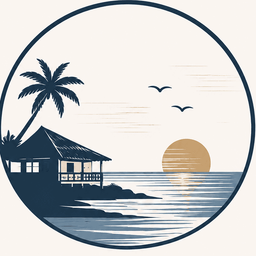
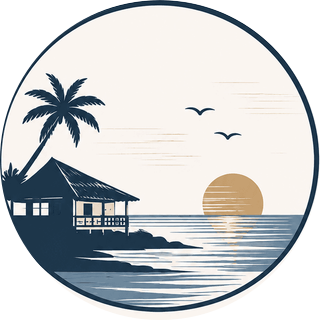
Homepage revamp: real photos, refined hero, editorial sections, mobile fix
- Imagery: real lodge photo hero (dimmed, light high-contrast text), real
  photo in the story, all 8 Booking.com photos in the gallery; removed the
  AI activity/atmosphere images.
- Layout: Experiences redesigned as an editorial "seasonal almanac" list
  (breaks the repeating card grid); Book/Connect stripped of stock imagery.
- Copy: tightened to the real family story, less generic marketing tone.
- Logo: circular emblem mark (transparent corners) + matching favicon.
- Mobile: fixed the menu drawer (was trapped by the header's backdrop-filter
  containing block) — now a full-screen sibling with its own close button.
- Tooling: Playwright mobile audit (no overflow / console errors).

diff --git a/components/SiteNav.tsx b/components/SiteNav.tsx
@@ -25,81 +25,94 @@ export function SiteNav() {
     };
   }, [open]);
 
+  const Wordmark = (
+    <Link href="/" aria-label={`${site.name} home`} className="flex items-center gap-2.5">
+      <Image
+        src="/images/logo-mark.png"
+        alt=""
+        width={240}
+        height={240}
+        priority
+        className="h-10 w-10 lg:h-11 lg:w-11"
+      />
+      <span className="font-heading text-lg font-semibold tracking-[0.3em] text-deepsea">
+        {site.wordmark}
+      </span>
+    </Link>
+  );
+
   return (
-    <header
-      className={`fixed inset-x-0 top-0 z-50 transition-all duration-500 ${
-        scrolled
-          ? "border-b border-teal/15 bg-sand/90 backdrop-blur-md"
-          : "bg-sand/70 backdrop-blur-sm"
-      }`}
-    >
-      <nav className="inner container-px flex items-center justify-between py-3">
-        <Link href="/" aria-label={`${site.name} home`} className="flex items-center gap-2.5">
-          <Image
-            src="/images/logo-mark.png"
-            alt=""
-            width={240}
-            height={240}
-            priority
-            className="h-10 w-10 lg:h-11 lg:w-11"
-          />
-          <span className="font-heading text-lg font-semibold tracking-[0.3em] text-deepsea">
-            {site.wordmark}
-          </span>
-        </Link>
+    <>
+      <header
+        className={`fixed inset-x-0 top-0 z-50 transition-all duration-500 ${
+          scrolled
+            ? "border-b border-teal/15 bg-sand/90 backdrop-blur-md"
+            : "bg-sand/70 backdrop-blur-sm"
+        }`}
+      >
+        <nav className="inner container-px flex items-center justify-between py-3">
+          {Wordmark}
 
-        {/* desktop links — centred, generous spacing */}
-        <ul className="hidden items-center gap-9 font-heading text-[11px] font-semibold uppercase tracking-[0.13em] text-deepsea/70 lg:flex">
-          {headerLinks.map((l) => (
-            <li key={l.href}>
-              <Link href={l.href} className="transition hover:text-teal">
-                {l.label}
-              </Link>
-            </li>
-          ))}
-        </ul>
+          {/* desktop links — centred, generous spacing */}
+          <ul className="hidden items-center gap-9 font-heading text-[11px] font-semibold uppercase tracking-[0.13em] text-deepsea/70 lg:flex">
+            {headerLinks.map((l) => (
+              <li key={l.href}>
+                <Link href={l.href} className="transition hover:text-teal">
+                  {l.label}
+                </Link>
+              </li>
+            ))}
+          </ul>
 
-        {/* desktop actions */}
-        <div className="hidden items-center gap-3 lg:flex">
-          <AmbientSound compact />
-          <a
-            href={site.bookingUrl}
-            target="_blank"
-            rel="noopener noreferrer"
-            className="btn-coral !px-5 !py-2.5 text-xs"
-          >
-            Check availability
-          </a>
-        </div>
-
-        {/* mobile toggle */}
-        <button
-          type="button"
-          onClick={() => setOpen((v) => !v)}
-          className="relative z-50 flex h-10 w-10 items-center justify-center rounded-full border border-teal/25 bg-white/60 lg:hidden"
-          aria-label={open ? "Close menu" : "Open menu"}
-          aria-expanded={open}
-        >
-          <span className="sr-only">Menu</span>
-          <div className="flex flex-col gap-1.5">
-            <span
-              className={`block h-0.5 w-5 bg-deepsea transition ${open ? "translate-y-2 rotate-45" : ""}`}
-            />
-            <span className={`block h-0.5 w-5 bg-deepsea transition ${open ? "opacity-0" : ""}`} />
-            <span
-              className={`block h-0.5 w-5 bg-deepsea transition ${open ? "-translate-y-2 -rotate-45" : ""}`}
-            />
+          {/* desktop actions */}
+          <div className="hidden items-center gap-3 lg:flex">
+            <AmbientSound compact />
+            <a
+              href={site.bookingUrl}
+              target="_blank"
+              rel="noopener noreferrer"
+              className="btn-coral !px-5 !py-2.5 text-xs"
+            >
+              Check availability
+            </a>
           </div>
-        </button>
-      </nav>
 
-      {/* mobile drawer */}
+          {/* mobile hamburger — opens the drawer */}
+          <button
+            type="button"
+            onClick={() => setOpen(true)}
+            className="flex h-10 w-10 items-center justify-center rounded-full border border-teal/25 bg-white/70 lg:hidden"
+            aria-label="Open menu"
+            aria-expanded={open}
+          >
+            <div className="flex flex-col gap-1.5">
+              <span className="block h-0.5 w-5 bg-deepsea" />
+              <span className="block h-0.5 w-5 bg-deepsea" />
+              <span className="block h-0.5 w-5 bg-deepsea" />
+            </div>
+          </button>
+        </nav>
+      </header>
+
+      {/* mobile drawer — sibling of the (blurred) header so it covers the full viewport */}
       <div
-        className={`fixed inset-0 z-40 flex flex-col bg-sand px-6 pb-10 pt-24 transition-opacity duration-300 lg:hidden ${
+        className={`fixed inset-0 z-[70] flex flex-col bg-sand px-6 pb-10 pt-4 transition-opacity duration-300 lg:hidden ${
           open ? "pointer-events-auto opacity-100" : "pointer-events-none opacity-0"
         }`}
       >
-        <ul className="flex flex-col gap-1">
+        <div className="flex items-center justify-between">
+          {Wordmark}
+          <button
+            type="button"
+            onClick={() => setOpen(false)}
+            className="flex h-10 w-10 items-center justify-center rounded-full border border-teal/25 bg-white/70 text-xl text-deepsea"
+            aria-label="Close menu"
+          >
+            ✕
+          </button>
+        </div>
+
+        <ul className="mt-6 flex flex-col">
           {navLinks.map((l) => (
             <li key={l.href}>
               <Link
@@ -112,7 +125,7 @@ export function SiteNav() {
             </li>
           ))}
         </ul>
-        <div className="mt-8 flex items-center justify-between gap-4">
+        <div className="mt-auto flex items-center justify-between gap-4 pt-8">
           <a
             href={site.bookingUrl}
             target="_blank"
@@ -125,6 +138,6 @@ export function SiteNav() {
           <AmbientSound compact />
         </div>
       </div>
-    </header>
+    </>
   );
 }

diff --git a/app/page.tsx b/app/page.tsx
@@ -52,7 +52,7 @@ export default function HomePage() {
 function Hero() {
   return (
     <section id="top" className="relative flex min-h-[100svh] flex-col overflow-hidden">
-      {/* full-bleed ocean photo, fading down into the page background */}
+      {/* full-bleed lodge photo, dimmed so the text reads clearly */}
       <div className="absolute inset-0 -z-10">
         <Photo
           src={img.hero.src}
@@ -61,25 +61,27 @@ function Hero() {
           rounded="rounded-none"
           sizes="100vw"
           className="h-full w-full"
+          imgClassName="object-[center_56%]"
         />
-        <div className="absolute inset-0 bg-gradient-to-b from-white/25 via-transparent to-transparent" />
-        <div className="absolute inset-x-0 bottom-0 h-2/3 bg-gradient-to-t from-sand via-sand/90 to-transparent" />
+        {/* dim + teal tint → photo recedes, text pops */}
+        <div className="absolute inset-0 bg-deepsea/55" />
+        <div className="absolute inset-0 bg-gradient-to-t from-deepsea/75 via-deepsea/35 to-deepsea/55" />
       </div>
 
-      <div className="inner container-px flex flex-1 flex-col justify-end pb-8 pt-28 text-center">
+      <div className="inner container-px flex flex-1 flex-col justify-center pb-10 pt-28 text-center">
         <Reveal>
-          <div className="mx-auto mb-6 flex flex-wrap items-center justify-center gap-2.5">
+          <div className="mx-auto mb-5 flex flex-wrap items-center justify-center gap-2.5">
             <Pill icon={<IconPin className="h-3.5 w-3.5" />}>{site.location}</Pill>
             <Pill icon={<IconWave className="h-3.5 w-3.5" />}>Beachfront · 100m to sand</Pill>
             <Pill icon={<IconSun className="h-3.5 w-3.5" />}>Solar powered</Pill>
           </div>
-          <h1 className="mx-auto max-w-4xl font-heading text-[clamp(2.5rem,7vw,5rem)] font-semibold leading-[1.04] tracking-tight text-deepsea">
-            Wake to the sound of the <span className="italic text-teal">waves</span>
+          <h1 className="mx-auto max-w-4xl font-heading text-[clamp(2.5rem,6.4vw,4.8rem)] font-semibold leading-[1.04] tracking-tight text-white [text-shadow:0_2px_24px_rgba(11,58,64,0.45)]">
+            Wake to the sound of the <span className="italic text-golden">waves</span>
           </h1>
-          <p className="mx-auto mt-6 max-w-xl font-body text-base leading-relaxed text-deepsea/70 sm:text-lg">
-            A luxury self-catering lodge on a dune above the Indian Ocean —
-            four en-suite rooms across two units, solar-powered, and your own
-            stretch of white-sand beach.
+          <p className="mx-auto mt-5 max-w-xl font-body text-base leading-relaxed text-white/90 sm:text-lg [text-shadow:0_1px_12px_rgba(11,58,64,0.5)]">
+            A family-run, self-catering lodge on a dune above the Indian Ocean —
+            four en-suite rooms across two thatched units, solar-powered, your own
+            stretch of white sand.
           </p>
         </Reveal>
 
@@ -88,7 +90,7 @@ function Hero() {
         </Reveal>
       </div>
 
-      <div className="pointer-events-none absolute bottom-5 left-0 right-0 z-10 animate-bob text-center font-heading text-[10px] font-semibold uppercase tracking-[0.3em] text-teal/80">
+      <div className="pointer-events-none absolute bottom-5 left-0 right-0 z-10 animate-bob text-center font-heading text-[10px] font-semibold uppercase tracking-[0.3em] text-white/75">
         Scroll
       </div>
     </section>
@@ -129,8 +131,8 @@ function Story() {
         </Reveal>
         <Reveal delay={120}>
           <Photo
-            src={img.beachWalk.src}
-            alt={img.beachWalk.alt}
+            src={img.deck.src}
+            alt={img.deck.alt}
             className="aspect-[4/5] w-full shadow-card"
             sizes="(max-width:1024px) 100vw, 50vw"
           />
@@ -283,10 +285,10 @@ function Lodge() {
 
 /* ───────────────────────── EXPERIENCES & SEASONS ───────────────────────── */
 const experiences = [
-  { when: "Jul – Nov", title: "Whale watching", image: img.whale, blurb: "Humpbacks pass close to the dune on their migration north." },
-  { when: "Oct – Mar", title: "Turtle nesting", image: img.turtle, blurb: "Loggerheads and leatherbacks come ashore after dark." },
-  { when: "Year-round", title: "Fishing & diving", image: img.reef, blurb: "Reef and game fishing, and dives off an untouched coast." },
-  { when: "Year-round", title: "Kitesurfing", image: img.kite, blurb: "Steady cross-shore wind and a wide, empty lagoon." },
+  { when: "Jul – Nov", title: "Whale watching", blurb: "Humpbacks pass close on their migration north — often near enough to watch from the deck with a coffee." },
+  { when: "Oct – Mar", title: "Turtle nesting", blurb: "Loggerheads and leatherbacks haul ashore after dark to lay, on a beach dark enough for the hatchlings to find the sea." },
+  { when: "All year", title: "Fishing & diving", blurb: "The reef and game fishing Madelaine's father first came for, and dives off a coast few people ever reach." },
+  { when: "All year", title: "Kitesurfing", blurb: "Steady cross-shore wind over a wide, empty lagoon — and, more often than not, no one else on the water." },
 ];
 
 function Experiences() {
@@ -295,54 +297,36 @@ function Experiences() {
       <div className="section container-px">
         <div className="inner">
           <Reveal className="max-w-2xl">
-            <div className="eyebrow mb-6">04 — Experiences & Seasons</div>
+            <div className="eyebrow mb-6">04 — Experiences &amp; Seasons</div>
             <h2 className="font-heading text-[clamp(2rem,4.4vw,3.2rem)] font-semibold leading-[1.1] text-deepsea">
               The ocean keeps its own calendar
             </h2>
             <p className="mt-5 max-w-xl font-body text-[17px] leading-relaxed text-deepsea/70">
-              Come for the whales, stay for the quiet. Pomene's reserve gives you
-              something different in every season — and the same warm water all
-              year.
+              Come for the whales, stay for the quiet. Every season brings
+              something different — and the water stays warm right through.
             </p>
           </Reveal>
 
-          <div className="mt-10 grid gap-5 sm:grid-cols-2 lg:grid-cols-4">
+          {/* editorial almanac — season on the left, what's on to the right */}
+          <div className="mt-12 border-t border-teal/15">
             {experiences.map((e, i) => (
-              <Reveal key={e.title} delay={i * 90}>
-                <article className="card h-full overflow-hidden hover:shadow-lift">
-                  <Photo
-                    src={e.image.src}
-                    alt={e.image.alt}
-                    rounded="rounded-none"
-                    className="h-48 w-full"
-                    sizes="(max-width:768px) 100vw, 25vw"
-                  />
-                  <div className="p-6">
-                    <div className="font-heading text-[11px] font-semibold uppercase tracking-[0.16em] text-coral">
-                      {e.when}
-                    </div>
-                    <h3 className="mt-2 font-heading text-xl font-semibold text-deepsea">
+              <Reveal key={e.title} delay={i * 70}>
+                <div className="grid items-baseline gap-x-10 gap-y-2 border-b border-teal/15 py-7 sm:grid-cols-[200px_1fr]">
+                  <div className="font-heading text-xl font-semibold uppercase tracking-[0.08em] text-teal">
+                    {e.when}
+                  </div>
+                  <div>
+                    <h3 className="font-heading text-2xl font-semibold text-deepsea">
                       {e.title}
                     </h3>
-                    <p className="mt-2 font-body text-[14px] leading-relaxed text-deepsea/65">
+                    <p className="mt-2 max-w-2xl font-body text-[16px] leading-relaxed text-deepsea/70">
                       {e.blurb}
                     </p>
                   </div>
-                </article>
+                </div>
               </Reveal>
             ))}
           </div>
-
-          <Reveal delay={120} className="mt-6 rounded-2xl border border-teal/15 bg-white p-6">
-            <div className="flex flex-wrap items-center gap-x-6 gap-y-2 font-heading text-[11px] font-semibold uppercase tracking-[0.1em] text-deepsea/60">
-              <span className="text-teal">When to come ·</span>
-              <span>Whales — Jul to Nov</span>
-              <span className="text-golden">/</span>
-              <span>Turtles — Oct to Mar</span>
-              <span className="text-golden">/</span>
-              <span>Fishing, diving &amp; kite — all year</span>
-            </div>
-          </Reveal>
         </div>
       </div>
     </section>
@@ -609,11 +593,8 @@ function Journal({
 function BookConnect() {
   return (
     <section id="book" className="relative overflow-hidden bg-teal text-white">
-      {/* subtle photographic texture behind the teal */}
-      <div className="absolute inset-0 -z-0 opacity-20">
-        <Photo src={img.whale.src} alt="" rounded="rounded-none" className="h-full w-full" sizes="100vw" />
-      </div>
-      <div className="absolute inset-0 -z-0 bg-teal/80" />
+      {/* soft light wash — no stock imagery */}
+      <div className="absolute inset-0 -z-0 bg-[radial-gradient(120%_120%_at_50%_-10%,rgba(255,255,255,0.14),transparent_60%)]" />
       <div className="section container-px relative text-center">
         <Reveal className="mx-auto max-w-2xl">
           <div className="mb-7 font-heading text-xs font-semibold uppercase tracking-[0.22em] text-mist">

diff --git a/components/Photo.tsx b/components/Photo.tsx
@@ -7,6 +7,7 @@ export function Photo({
   src,
   alt,
   className = "",
+  imgClassName = "",
   rounded = "rounded-2xl",
   sizes = "(max-width: 768px) 100vw, 50vw",
   priority = false,
@@ -17,6 +18,7 @@ export function Photo({
   src: string;
   alt: string;
   className?: string;
+  imgClassName?: string;
   rounded?: string;
   sizes?: string;
   priority?: boolean;
@@ -32,7 +34,7 @@ export function Photo({
         fill
         sizes={sizes}
         priority={priority}
-        className="object-cover transition duration-700 will-change-transform"
+        className={`object-cover transition duration-700 will-change-transform ${imgClassName}`}
       />
       {overlay && (
         <div className="absolute inset-0 bg-gradient-to-t from-deepsea/45 via-deepsea/5 to-transparent" />

diff --git a/lib/images.ts b/lib/images.ts
@@ -15,7 +15,8 @@ const L = "/images/lodge"; // real lodge photos (Booking.com + press feature)
 
 export const img = {
   // ── Hero (AI-generated coastal hero, or fallback beach photo) ───────
-  hero: { src: "/images/hero.jpg", alt: "The turquoise Indian Ocean and white-sand beach at Pomene, Mozambique" },
+  hero: { src: `${L}/724091683.jpg`, alt: "Iz-Ma-An Lodge on the dune above the Indian Ocean, Pomene" },
+  heroAlt: { src: "/images/lodge-real-1.jpg", alt: "Iz-Ma-An Lodge above the beach at Pomene" },
   // Real lodge exterior (used in the Lodge section & gallery):
   lodgeOnDune: { src: `${L}/724091683.jpg`, alt: "Iz-Ma-An Lodge — thatched beach house on the dune above the Indian Ocean, Pomene" },
 